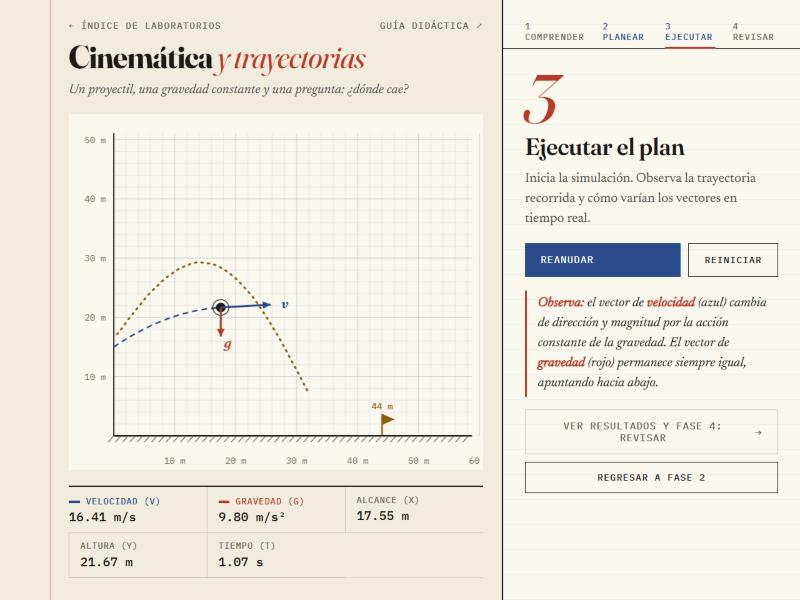
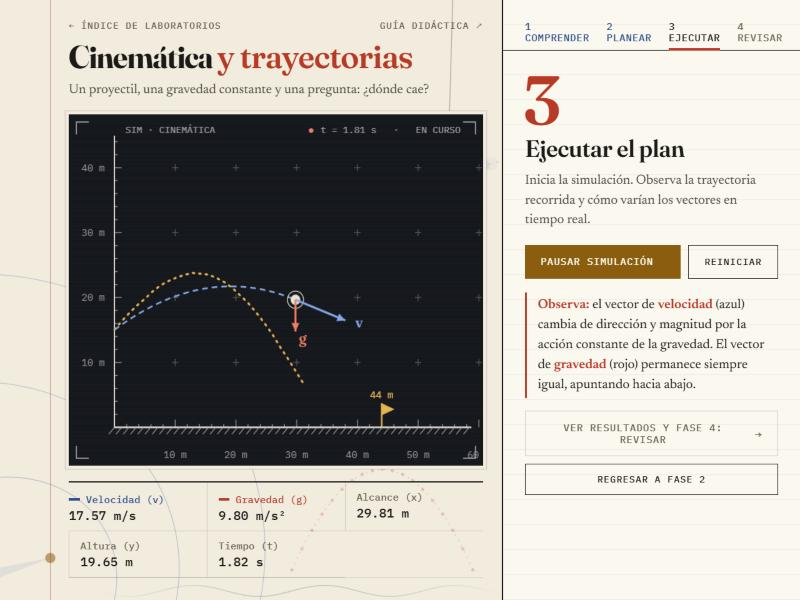
docs(guias): rehace las 19 capturas con la pantalla oscura de los simuladores
Capturas tomadas del simulador real en el estado de cada pie de figura.
Al hacerlas se corrigieron tres choques con el visor: el panel Kepler III
(Gravitación), el techo del péndulo (Oscilaciones) y la leyenda K/U/Q del
recuadro estrecho (Energía).

diff --git a/pages/guide_cinematica.html b/pages/guide_cinematica.html
@@ -81,7 +81,7 @@
       <p>Antes de lanzar, identifica los parámetros de entrada y repasa qué magnitudes vectoriales cambian y cuáles no durante el vuelo.</p>
     <figure>
       <img src="../assets/guides/cinematica_fase1.jpg" alt="Fase 1 del simulador de cinemática: sliders y cuestionario" loading="lazy">
-      <figcaption><b>Figura 1</b> · Fase 1. A la izquierda, el proyectil en su punto de partida sobre papel milimetrado; a la derecha, los sliders de altura, velocidad, ángulo y gravedad y la pregunta de comprensión.</figcaption>
+      <figcaption><b>Figura 1</b> · Fase 1. A la izquierda, el proyectil en su punto de partida sobre la pantalla de instrumento; a la derecha, los sliders de altura, velocidad, ángulo y gravedad y la pregunta de comprensión.</figcaption>
     </figure>
     <div class="worksheet">
       <h4>En tu cuaderno · variables del escenario</h4>

diff --git a/js/energia/canvasRenderer.js b/js/energia/canvasRenderer.js
@@ -321,13 +321,17 @@ export class CanvasRendererEnergia {
     });
     ctx.restore();
 
-    // Leyenda
+    // Leyenda: junto al título; si el recuadro es estrecho y chocaría con él, dentro del trazado
+    const legendX = innerX + innerW - 118;
+    ctx.font = `500 12px ${FONTS.mono}`;
+    const titleEnd = x + ctx.measureText('ENERGÍA vs TIEMPO').width + 12;
+    const legendY = legendX < titleEnd ? innerY + 10 : y + 14;
     ctx.font = `600 14px ${FONTS.display}`;
     ctx.textBaseline = 'middle';
     ctx.textAlign = 'left';
     [['K', this.COLOR_KE], ['U', this.COLOR_PE], ['Q', this.COLOR_THERMAL]].forEach(([label, color], i) => {
       ctx.fillStyle = color;
-      ctx.fillText(`— ${label}`, innerX + innerW - 118 + i * 40, y + 14);
+      ctx.fillText(`— ${label}`, legendX + i * 40, legendY);
     });
   }
 }

diff --git a/js/gravitacion/canvasRenderer.js b/js/gravitacion/canvasRenderer.js
@@ -230,7 +230,7 @@ export class CanvasRendererGravitacion {
     const panelW = Math.min(200, W * 0.46);
     const panelH = 70 + rows.length * 18;
     const x = W - panelW - 16;
-    const y = 16;
+    const y = 40; // por debajo del rótulo de estado del visor (js/shared/instrument.js)
 
     ctx.fillStyle = palette.paper;
     ctx.fillRect(x, y, panelW, panelH);

diff --git a/js/oscilaciones/canvasRenderer.js b/js/oscilaciones/canvasRenderer.js
@@ -51,7 +51,7 @@ export class CanvasRendererOscilaciones {
     this.stageH = this.graphY - 14;
 
     this.pivotX = this.W * 0.5;
-    this.pivotY = 36;
+    this.pivotY = 52; // el techo queda por debajo del rótulo de estado del visor
   }
 
   draw(state, engine) {

diff --git a/progress/history.md b/progress/history.md
@@ -172,5 +172,5 @@
 * **Textos poco visibles:** el botón deshabilitado «Lanzamiento completo» salía gris sobre azul (la variante `.success` ganaba a `:disabled`); corregido. Auditoría de contraste de todos los textos del DOM (WCAG AA) sin más fallos, y tamaños mínimos subidos a 12 px en CSS y canvas.
 * **Portada:** quitado el marco dorado (borde decorativo + anillo de foco). Corregido un error mío: al poner la pizarra, los textos de la tapa quedaron por encima del botón y pulsar el título o el subtítulo no abría el libro (sin cursor de mano).
 * Se detectó un error de sintaxis tras editar un renderizador que dejaba el lienzo en blanco sin que fallara ninguna prueba: la prueba UI 11 ahora comprueba con `node --check` que todos los módulos propios compilan.
-* **Pendiente:** las 24 capturas de `assets/guides/` muestran el lienzo claro anterior; hay que rehacerlas con la pantalla oscura.
+* **Capturas de las guías rehechas** (19 en `assets/guides/`, 800 × 600) con la pantalla oscura, tomadas del simulador real en el estado que describe cada pie de figura. Al hacerlas se vieron dos choques con el visor, corregidos: el panel Kepler III de Gravitación pisaba el rótulo de estado (ahora baja a y = 40), el techo del péndulo lo tocaba (pivote a y = 52) y la leyenda K/U/Q de Energía chocaba con el título de su recuadro estrecho (pasa dentro del trazado cuando no cabe).
 
